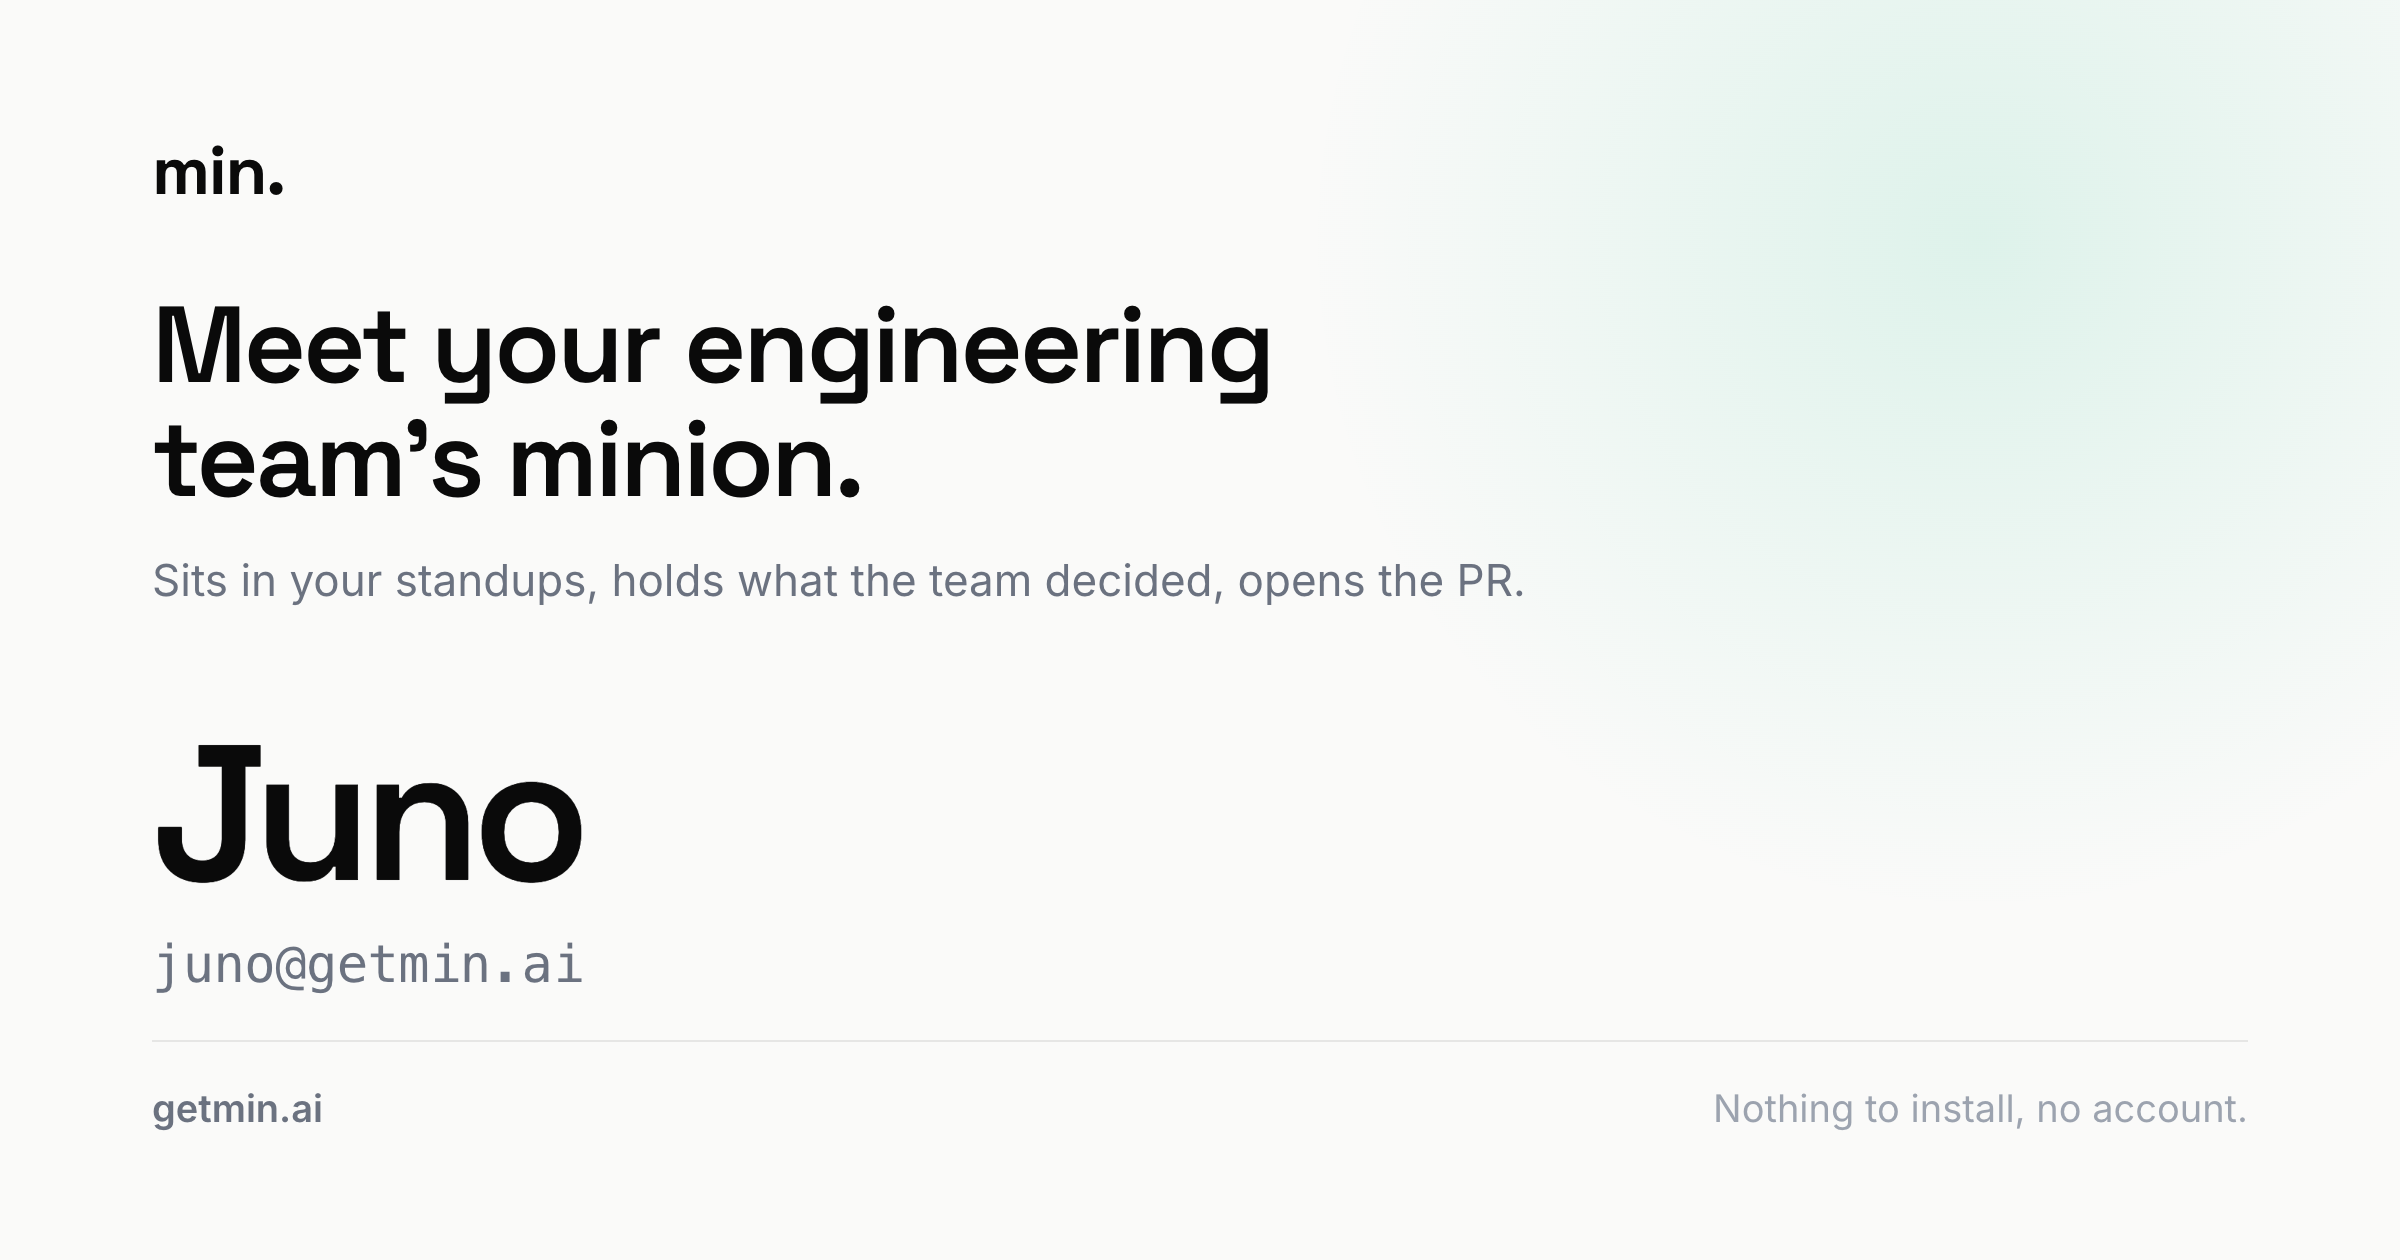
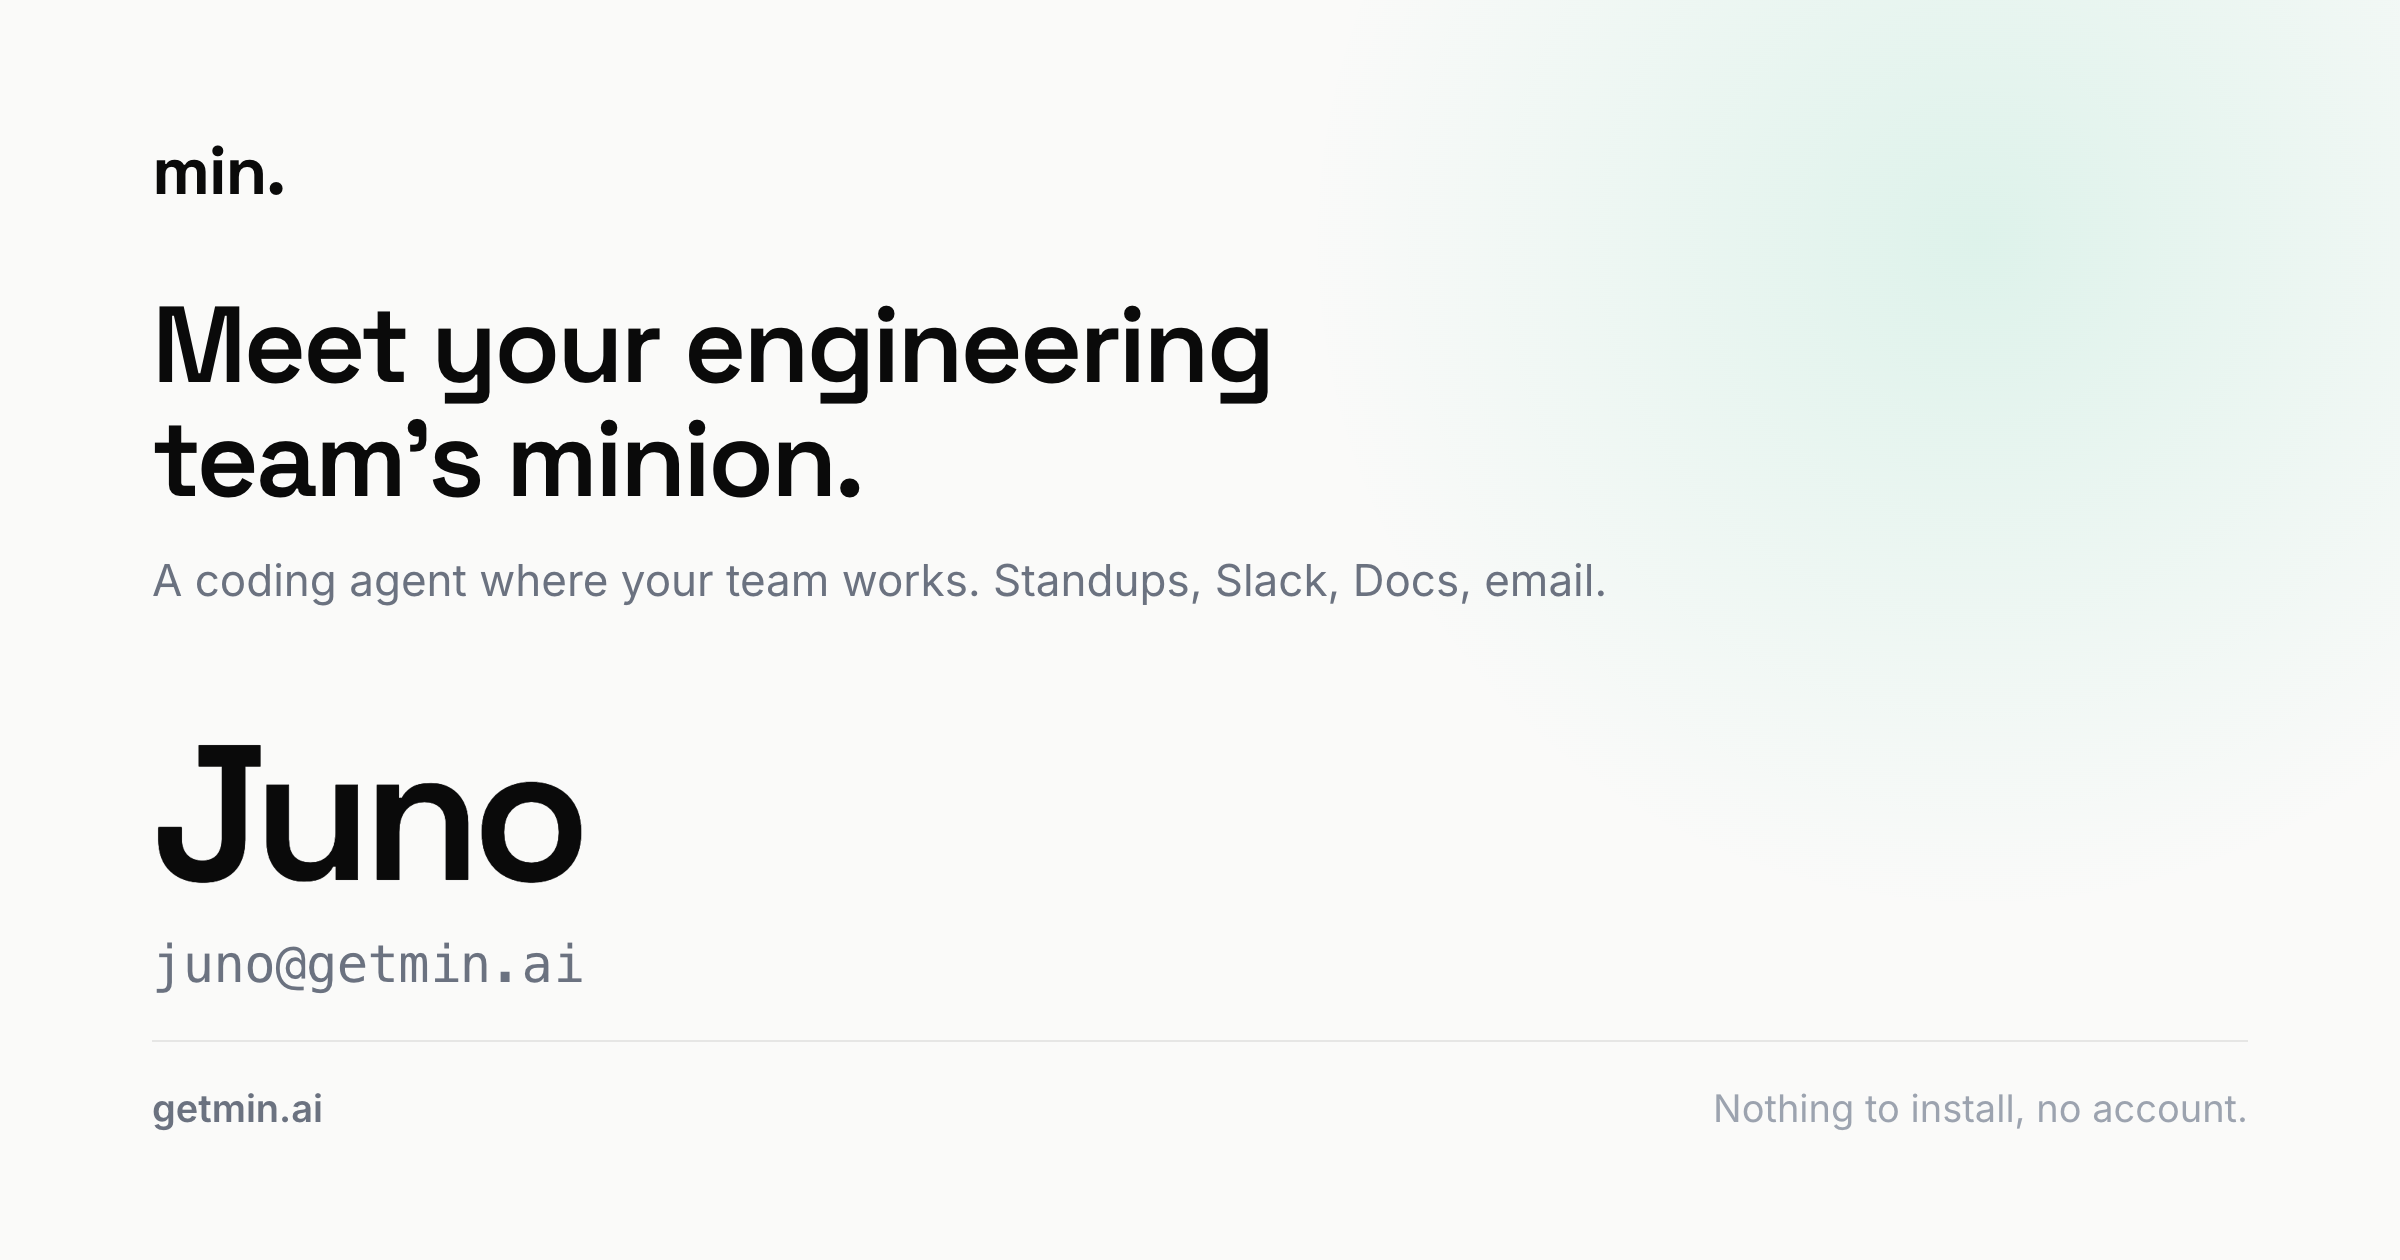
Organise the page by surface, because the surfaces are the claim
The pitch is not "it takes notes and also writes code". It is that the coding
agent shows up where the work gets decided. Editors already have agents;
standups, Slack threads, specs and inboxes do not. So the four items are four
places the team already is, and the fourth is the payoff: it comes out as code.

  In the meeting.
  In Slack, Teams, or your inbox.
  In the doc.
  Then they open the PR.

The hero sub says it outright rather than listing capabilities: a coding agent
that works where your team does.

That brought back the Google Docs item, which the previous pass had cut. It read
as generic collaboration before; under a surfaces spine it is one of the four
places engineering decisions actually live.

MCP folds into the PR item instead of taking a slot of its own. It is the return
leg of the same claim, the context gathered in those rooms reaching Claude Code
and Cursor, so it belongs next to the code rather than beside it.

The crawler block was rewritten rather than patched: the earlier splice had left
its paragraphs in a different order from the page, with the doc and PR items
ahead of Slack.

Changed region(s): [[0.0625, 0.4333, 0.6562, 0.4952]]

diff --git a/index.html b/index.html
@@ -7,7 +7,7 @@
     <title>min. | Meet your engineering team's minion</title>
     <!-- Primary Meta Tags -->
     <meta name="title" content="min. | Meet your engineering team's minion" />
-    <meta name="description" content="An AI teammate for engineering teams. Sits in your standups and design reviews, holds what the team decided, and opens the PR." />
+    <meta name="description" content="A coding agent for engineering teams that works where your team does. Standups, Slack, Google Docs and email. It holds what the team decided and opens the PR." />
     <meta name="keywords" content="team AI notetaker, shared meeting notes, AI teammate for teams, recurring meeting notes, team memory, AI meeting minutes, team knowledge, MCP context" />
     <meta name="author" content="min." />
 
@@ -15,7 +15,7 @@
     <meta property="og:type" content="website" />
     <meta property="og:url" content="https://getmin.ai/" />
     <meta property="og:title" content="min. | Meet your engineering team's minion" />
-    <meta property="og:description" content="An AI teammate for engineering teams. Sits in your standups and design reviews, holds what the team decided, and opens the PR." />
+    <meta property="og:description" content="A coding agent for engineering teams that works where your team does. Standups, Slack, Google Docs and email. It holds what the team decided and opens the PR." />
     <meta property="og:image" content="https://getmin.ai/og-cover-eng.png" />
     <meta property="og:image:width" content="2400" />
     <meta property="og:image:height" content="1260" />
@@ -27,7 +27,7 @@
     <meta name="twitter:card" content="summary_large_image" />
     <meta name="twitter:url" content="https://getmin.ai/" />
     <meta name="twitter:title" content="min. | Meet your engineering team's minion" />
-    <meta name="twitter:description" content="An AI teammate for engineering teams. Sits in your standups and design reviews, holds what the team decided, and opens the PR." />
+    <meta name="twitter:description" content="A coding agent for engineering teams that works where your team does. Standups, Slack, Google Docs and email. It holds what the team decided and opens the PR." />
     <meta name="twitter:image" content="https://getmin.ai/og-cover-eng.png" />
     <meta name="twitter:image:alt" content="min. Meet your team's newest member" />
     <meta name="twitter:creator" content="@getminai" />
@@ -72,7 +72,7 @@
           "@type": "SoftwareApplication",
           "@id": "https://getmin.ai/#app",
           "name": "min.",
-          "description": "An AI teammate for engineering teams. Sits in your standups and design reviews, holds what the team decided, and opens the PR.",
+          "description": "A coding agent for engineering teams that works where your team does. Standups, Slack, Google Docs and email. It holds what the team decided and opens the PR.",
           "applicationCategory": "BusinessApplication",
           "applicationSubCategory": "AI Assistant",
           "operatingSystem": "macOS, Windows",
@@ -87,7 +87,7 @@
             "priceCurrency": "USD",
             "description": "Free forever for one person. Pro at $20 per active teammate per month adds shared notes, team reminders, rituals, and asking min. in Slack or Teams. Business is custom, with SSO, SAML, SCIM, data residency, and bring your own database, graph, and vector store."
           },
-          "featureList": ["Take notes that belong to the team, not to whoever hit record", "A weekly standup becomes one thing that keeps getting deeper instead of forty unrelated files", "Ask what the team knows, in Slack or Teams", "Reachable over MCP, so your team's context follows each teammate into any AI tool of their choosing"],
+          "featureList": ["In the meeting: standups, design reviews and incident calls, with notes that belong to the team", "In the doc: added to a Google Docs spec like any other teammate", "In Slack, Teams or your inbox: ask what the team decided, or hand them the bug", "Opens a pull request with the context from the room, which you review and merge"],
           "provider": { "@id": "https://getmin.ai/#org" }
         },
         {
@@ -145,13 +145,13 @@
       </noscript>
       <main hidden>
         <h1>Meet your engineering team's minion.</h1>
-        <p>They sit in standups and design reviews, hold what the team decided, and open the PR.</p>
+        <p>A coding agent that works where your team does. Standups, Slack, Google Docs, email.</p>
         <p>Every team gets a minion: a named teammate whose name is its email address, like juno@getmin.ai. Invite them to your next team meeting. Nothing to install, no account.</p>
-        <p>Take notes that belong to the team. Standups, design reviews, incident calls. Not whoever happened to hit record.</p>
-        <p>Turn a decision into a pull request. It opens the PR with the context from the room. You review it and merge it.</p>
-        <p>Ask them what the team decided. In Slack or Teams. Why the migration slipped, what you agreed in March.</p>
-        <p>They come with you. Reachable over MCP, so your team's context follows them into any AI tool of their choosing.</p>
-        <p>A weekly meeting should get deeper, not longer. Most notetakers hand you a new file every week. Yours treats your team knowledge as one thing, so what was decided in March is still there in August, with the whole context, just like a teammate.</p>
+        <p>In the meeting. Standups, design reviews, incident calls. The notes belong to the team, not to whoever hit record.</p>
+        <p>In Slack, Teams, or your inbox. Ask what the team decided. Or hand them the bug.</p>
+        <p>In the doc. Add them to a spec in Google Docs the way you would add a teammate.</p>
+        <p>Then they open the PR, with the context from the room rather than just the ticket. You review it and merge it, and the same context reaches Claude Code or Cursor over MCP.</p>
+        <p>Your standup should get deeper, not longer. Most notetakers hand you a new file every week. Yours treats your team knowledge as one thing, so what was decided in March is still there in August, with the whole context, just like a teammate.</p>
       </main>
     </div>
     <script type="module" src="/src/main.tsx"></script>

diff --git a/src/components/landing/MinionLanding.tsx b/src/components/landing/MinionLanding.tsx
@@ -233,29 +233,32 @@ function NameCard({ picker, compact = false }: { picker: Picker; compact?: boole
  * the page, so stating it twice cost a line and taught nothing.
  */
 /**
- * Four, in the order an engineer meets them: the meeting, the accumulation,
- * the code, the tools they already use.
+ * Organised by SURFACE, not by capability, because the surfaces are the claim.
+ * Coding agents already live in the editor; what they miss is the standup, the
+ * Slack thread and the spec where the work is actually decided. So each item
+ * names a place the team already is, and the last one is the payoff: it ends up
+ * as code.
  *
- * "Open the PR" is stated as open-a-PR-you-review, not as fix-your-bugs,
- * because that is what actually happens and because engineers are the audience
- * least willing to forgive an overclaim about code they have to merge.
+ * "Opens the PR" stays stated as open-a-PR-you-review rather than fixes-bugs.
+ * Engineers are the audience least willing to forgive an overclaim about code
+ * they are being asked to merge.
  */
 const DOES: [string, string][] = [
   [
-    "Take notes that belong to the team.",
-    "Standups, design reviews, incident calls. Not whoever happened to hit record.",
+    "In the meeting.",
+    "Standups, design reviews, incident calls. The notes belong to the team, not to whoever hit record.",
   ],
   [
-    "Ask them what the team decided.",
-    "In Slack or Teams. Why the migration slipped, what you agreed in March.",
+    "In Slack, Teams, or your inbox.",
+    "Ask what the team decided. Or hand them the bug.",
   ],
   [
-    "Turn a decision into a pull request.",
-    "It opens the PR with the context from the room. You review it and merge it.",
+    "In the doc.",
+    "Add them to a spec in Google Docs the way you would add a teammate.",
   ],
   [
-    "They come with you.",
-    "Reachable over MCP, so your team's context follows them into Claude Code, Cursor, or any AI tool of their choosing.",
+    "Then they open the PR.",
+    "With the context from the room, not just the ticket. You review it and merge it, and the same context reaches Claude Code or Cursor over MCP.",
   ],
 ];
 
@@ -310,8 +313,8 @@ export default function MinionLanding() {
             Meet your engineering team's minion.
           </h1>
           <p className="mt-5 max-w-[32rem] text-[17px] leading-[1.6] text-quiet [text-wrap:pretty]">
-            They sit in standups and design reviews, hold what the team decided,
-              and open the PR.
+            A coding agent that works where your team does. Standups, Slack,
+              Google Docs, email.
           </p>
 
           {/* Anchored: the nav CTA and every in-page call to action scroll
@@ -375,8 +378,8 @@ export default function MinionLanding() {
                 ))}
               </div>
               <p className="mt-4 text-[13.5px] leading-[1.6] text-quiet [text-wrap:pretty]">
-                Ask why cutover slipped and they answer from all three. Ask for the
-                rollback plan and they open the PR.
+                Ask in Slack why cutover slipped and they answer from all three. Ask
+                for the rollback plan and they open the PR.
               </p>
             </div>
           </div>

diff --git a/src/pages/Index.tsx b/src/pages/Index.tsx
@@ -17,7 +17,7 @@ const Index = () => {
         <title>min. | Meet your engineering team's minion</title>
         <meta
           name="description"
-          content="An AI teammate for engineering teams. Sits in your standups and design reviews, holds what the team decided, and opens the PR."
+          content="A coding agent for engineering teams that works where your team does. Standups, Slack, Google Docs and email. It holds what the team decided and opens the PR."
         />
         <link rel="canonical" href="https://getmin.ai/" />
       </Helmet>

diff --git a/public/og-image.html b/public/og-image.html
@@ -60,7 +60,7 @@
     <div>
       <div class="mark">min.</div>
       <h1 style="margin-top:38px;">Meet your engineering<br>team's minion.</h1>
-      <p class="sub">Sits in your standups, holds what the team decided, opens the PR.</p>
+      <p class="sub">A coding agent where your team works. Standups, Slack, Docs, email.</p>
     </div>
 
     <div style="margin-top:52px;">
